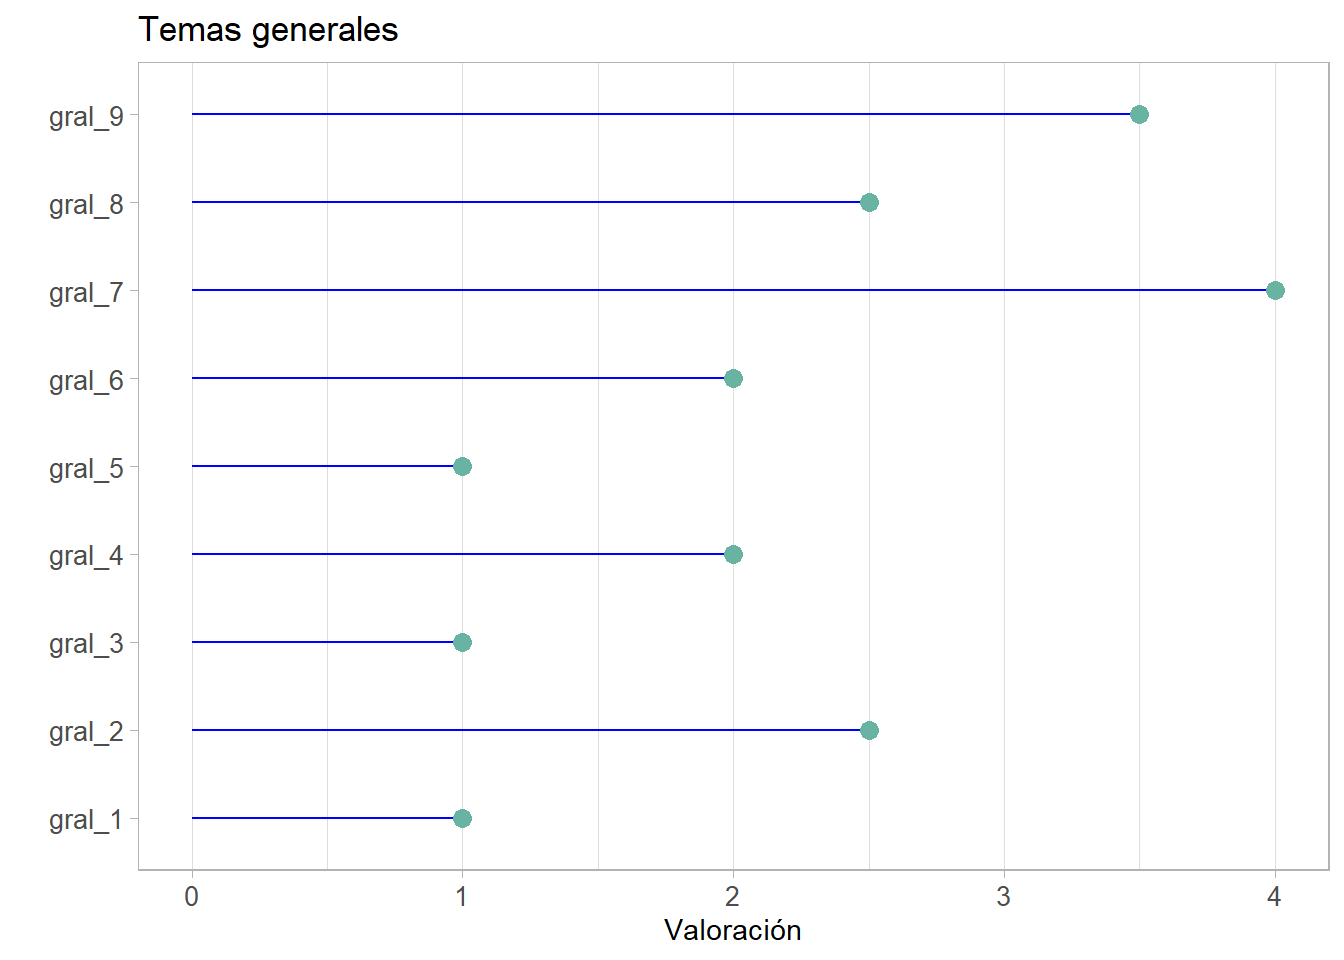
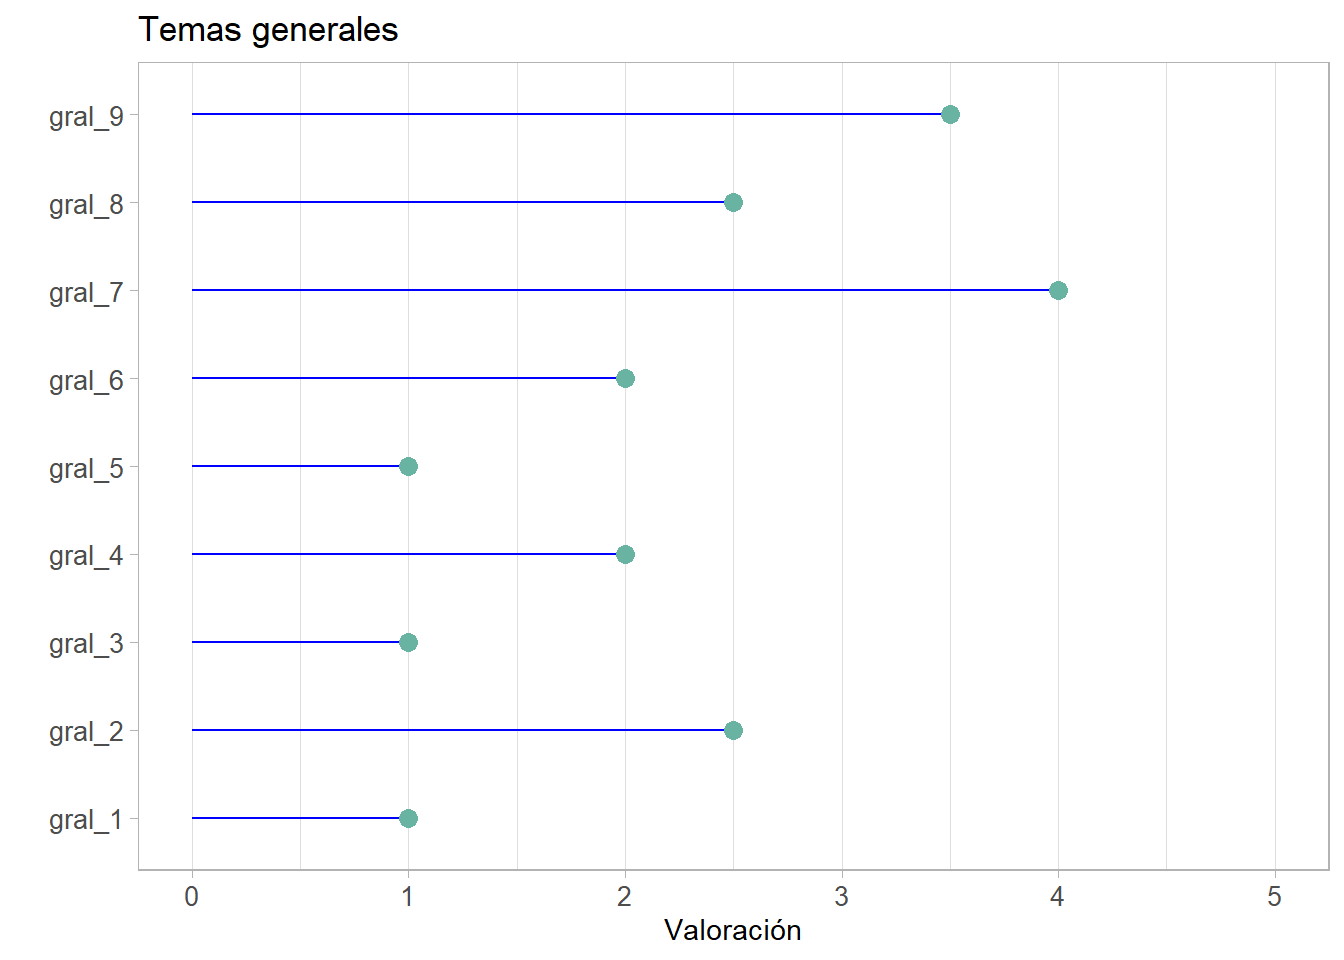
evaluación

diff --git a/_site/posts/2025-05-16-que-aprendi/index.html b/_site/posts/2025-05-16-que-aprendi/index.html
@@ -227,12 +227,12 @@ pre > code.sourceCode > span > a:first-child::before { text-decoration: underlin
 <summary>muestra el escript:</summary>
 <div class="sourceCode cell-code" id="cb1"><pre class="sourceCode r code-with-copy"><code class="sourceCode r"><span id="cb1-1"><a href="#cb1-1" aria-hidden="true" tabindex="-1"></a>pacman<span class="sc">::</span><span class="fu">p_load</span>(googlesheets4, stringr, dplyr, tidyr, ggplot2)</span>
 <span id="cb1-2"><a href="#cb1-2" aria-hidden="true" tabindex="-1"></a></span>
-<span id="cb1-3"><a href="#cb1-3" aria-hidden="true" tabindex="-1"></a><span class="fu">gs4_auth</span>(<span class="at">email =</span> <span class="st">"equihuam@gmail.com"</span>)</span>
+<span id="cb1-3"><a href="#cb1-3" aria-hidden="true" tabindex="-1"></a><span class="fu">gs4_auth</span>(<span class="at">email =</span> <span class="st">"equihuam@gmail.com"</span> )</span>
 <span id="cb1-4"><a href="#cb1-4" aria-hidden="true" tabindex="-1"></a></span>
 <span id="cb1-5"><a href="#cb1-5" aria-hidden="true" tabindex="-1"></a>url_gs <span class="ot">&lt;-</span> <span class="st">"https://docs.google.com/spreadsheets/d/1O7jzCP3RD7IuOoF-wXrgFnhWLTB_3mhUQevyFhQjA3I/edit?resourcekey=&amp;gid=1886023914#gid=1886023914"</span></span>
 <span id="cb1-6"><a href="#cb1-6" aria-hidden="true" tabindex="-1"></a>datos_id <span class="ot">&lt;-</span> <span class="fu">str_extract</span>(url_gs, <span class="st">"(?&lt;=/d/)(.*?)(?=/edit)"</span>)</span>
 <span id="cb1-7"><a href="#cb1-7" aria-hidden="true" tabindex="-1"></a></span>
-<span id="cb1-8"><a href="#cb1-8" aria-hidden="true" tabindex="-1"></a>datos_eval <span class="ot">&lt;-</span> <span class="fu">read_sheet</span>( datos_id) </span></code><button title="Copiar al portapapeles" class="code-copy-button"><i class="bi"></i></button></pre></div>
+<span id="cb1-8"><a href="#cb1-8" aria-hidden="true" tabindex="-1"></a>datos_eval <span class="ot">&lt;-</span> <span class="fu">read_sheet</span>(datos_id) </span></code><button title="Copiar al portapapeles" class="code-copy-button"><i class="bi"></i></button></pre></div>
 </details>
 <div class="cell-output cell-output-stderr">
 <pre><code>✔ Reading from "2025-otra-manera-de-escribir-evaluación (Respuestas)".</code></pre>
@@ -287,7 +287,8 @@ pre > code.sourceCode > span > a:first-child::before { text-decoration: underlin
 <span id="cb6-12"><a href="#cb6-12" aria-hidden="true" tabindex="-1"></a>      <span class="at">axis.text =</span> <span class="fu">element_text</span>( <span class="at">size=</span><span class="dv">10</span> )) <span class="sc">+</span></span>
 <span id="cb6-13"><a href="#cb6-13" aria-hidden="true" tabindex="-1"></a>    <span class="fu">ylab</span>(<span class="st">"Valoración"</span>) <span class="sc">+</span></span>
 <span id="cb6-14"><a href="#cb6-14" aria-hidden="true" tabindex="-1"></a>    <span class="fu">xlab</span>(<span class="st">""</span>) <span class="sc">+</span></span>
-<span id="cb6-15"><a href="#cb6-15" aria-hidden="true" tabindex="-1"></a>    <span class="fu">labs</span>(<span class="at">title =</span> <span class="st">"Temas generales"</span>)</span></code><button title="Copiar al portapapeles" class="code-copy-button"><i class="bi"></i></button></pre></div>
+<span id="cb6-15"><a href="#cb6-15" aria-hidden="true" tabindex="-1"></a>    <span class="fu">labs</span>(<span class="at">title =</span> <span class="st">"Temas generales"</span>) <span class="sc">+</span></span>
+<span id="cb6-16"><a href="#cb6-16" aria-hidden="true" tabindex="-1"></a>    <span class="fu">ylim</span>(<span class="fu">c</span>(<span class="dv">0</span>, <span class="dv">5</span>))</span></code><button title="Copiar al portapapeles" class="code-copy-button"><i class="bi"></i></button></pre></div>
 </details>
 <div class="cell-output-display">
 <div>
@@ -317,7 +318,8 @@ pre > code.sourceCode > span > a:first-child::before { text-decoration: underlin
 <span id="cb7-12"><a href="#cb7-12" aria-hidden="true" tabindex="-1"></a>      <span class="at">axis.text =</span> <span class="fu">element_text</span>( <span class="at">size=</span><span class="dv">10</span> )) <span class="sc">+</span></span>
 <span id="cb7-13"><a href="#cb7-13" aria-hidden="true" tabindex="-1"></a>    <span class="fu">ylab</span>(<span class="st">"Valoración"</span>) <span class="sc">+</span></span>
 <span id="cb7-14"><a href="#cb7-14" aria-hidden="true" tabindex="-1"></a>    <span class="fu">xlab</span>(<span class="st">""</span>) <span class="sc">+</span></span>
-<span id="cb7-15"><a href="#cb7-15" aria-hidden="true" tabindex="-1"></a>    <span class="fu">labs</span>(<span class="at">title =</span> <span class="st">"Manejo de RStudio y Markdown"</span>)</span></code><button title="Copiar al portapapeles" class="code-copy-button"><i class="bi"></i></button></pre></div>
+<span id="cb7-15"><a href="#cb7-15" aria-hidden="true" tabindex="-1"></a>    <span class="fu">labs</span>(<span class="at">title =</span> <span class="st">"Manejo de RStudio y Markdown"</span>) <span class="sc">+</span></span>
+<span id="cb7-16"><a href="#cb7-16" aria-hidden="true" tabindex="-1"></a>    <span class="fu">ylim</span>(<span class="fu">c</span>(<span class="dv">0</span>, <span class="dv">5</span>))</span></code><button title="Copiar al portapapeles" class="code-copy-button"><i class="bi"></i></button></pre></div>
 </details>
 <div class="cell-output-display">
 <div>
@@ -347,7 +349,8 @@ pre > code.sourceCode > span > a:first-child::before { text-decoration: underlin
 <span id="cb8-12"><a href="#cb8-12" aria-hidden="true" tabindex="-1"></a>      <span class="at">axis.text =</span> <span class="fu">element_text</span>( <span class="at">size=</span><span class="dv">10</span> )) <span class="sc">+</span></span>
 <span id="cb8-13"><a href="#cb8-13" aria-hidden="true" tabindex="-1"></a>    <span class="fu">ylab</span>(<span class="st">"Valoración"</span>) <span class="sc">+</span></span>
 <span id="cb8-14"><a href="#cb8-14" aria-hidden="true" tabindex="-1"></a>    <span class="fu">xlab</span>(<span class="st">""</span>) <span class="sc">+</span></span>
-<span id="cb8-15"><a href="#cb8-15" aria-hidden="true" tabindex="-1"></a>    <span class="fu">labs</span>(<span class="at">title =</span> <span class="st">"Mnejo de Git"</span>)</span></code><button title="Copiar al portapapeles" class="code-copy-button"><i class="bi"></i></button></pre></div>
+<span id="cb8-15"><a href="#cb8-15" aria-hidden="true" tabindex="-1"></a>    <span class="fu">labs</span>(<span class="at">title =</span> <span class="st">"Mnejo de Git"</span>) <span class="sc">+</span></span>
+<span id="cb8-16"><a href="#cb8-16" aria-hidden="true" tabindex="-1"></a>    <span class="fu">ylim</span>(<span class="fu">c</span>(<span class="dv">0</span>, <span class="dv">5</span>))  </span></code><button title="Copiar al portapapeles" class="code-copy-button"><i class="bi"></i></button></pre></div>
 </details>
 <div class="cell-output-display">
 <div>
@@ -784,7 +787,7 @@ window.document.addEventListener("DOMContentLoaded", function (event) {
 });
 </script>
 </div> <!-- /content -->
-<script>var lightboxQuarto = GLightbox({"selector":".lightbox","descPosition":"bottom","loop":false,"openEffect":"zoom","closeEffect":"zoom"});
+<script>var lightboxQuarto = GLightbox({"loop":false,"closeEffect":"zoom","descPosition":"bottom","openEffect":"zoom","selector":".lightbox"});
 (function() {
   let previousOnload = window.onload;
   window.onload = () => {
